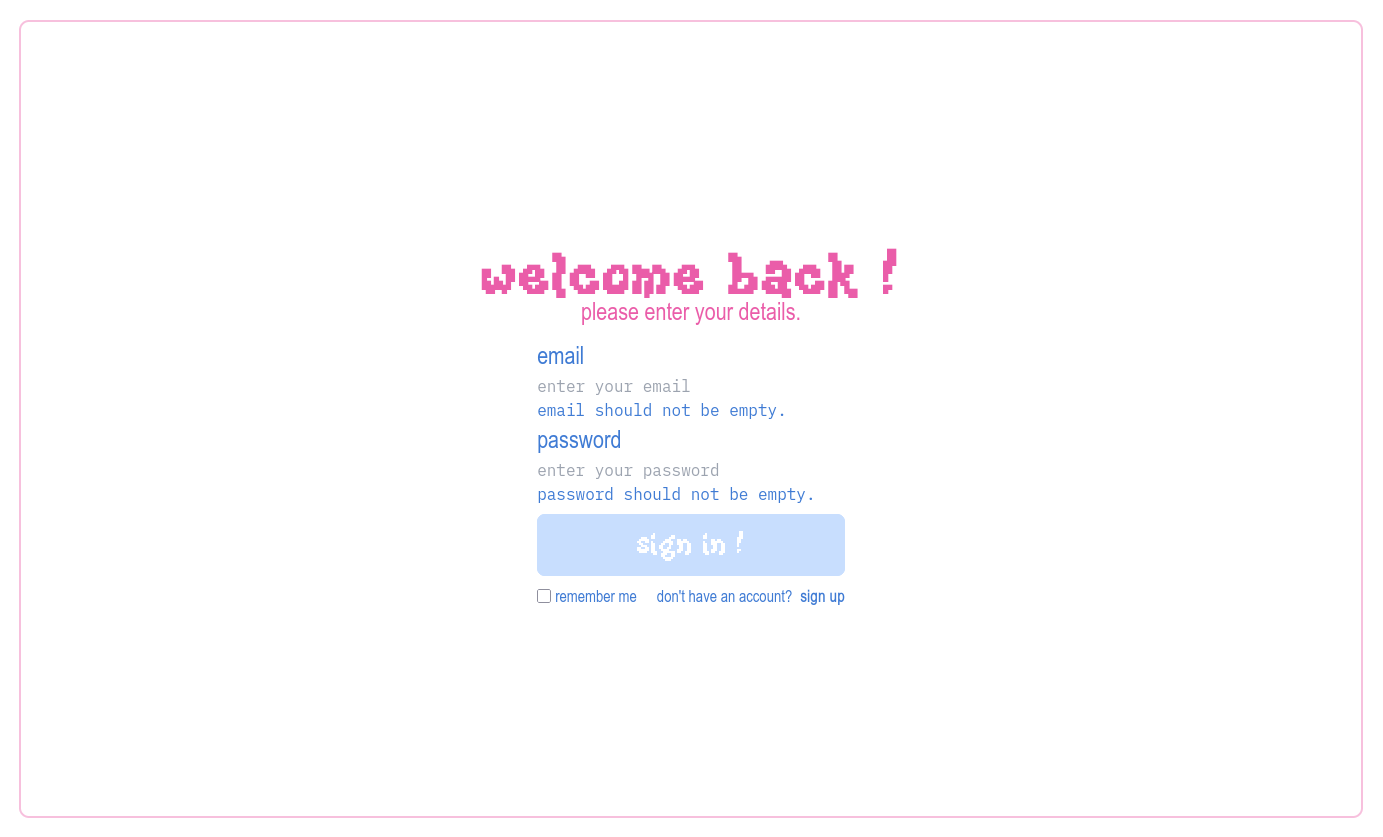
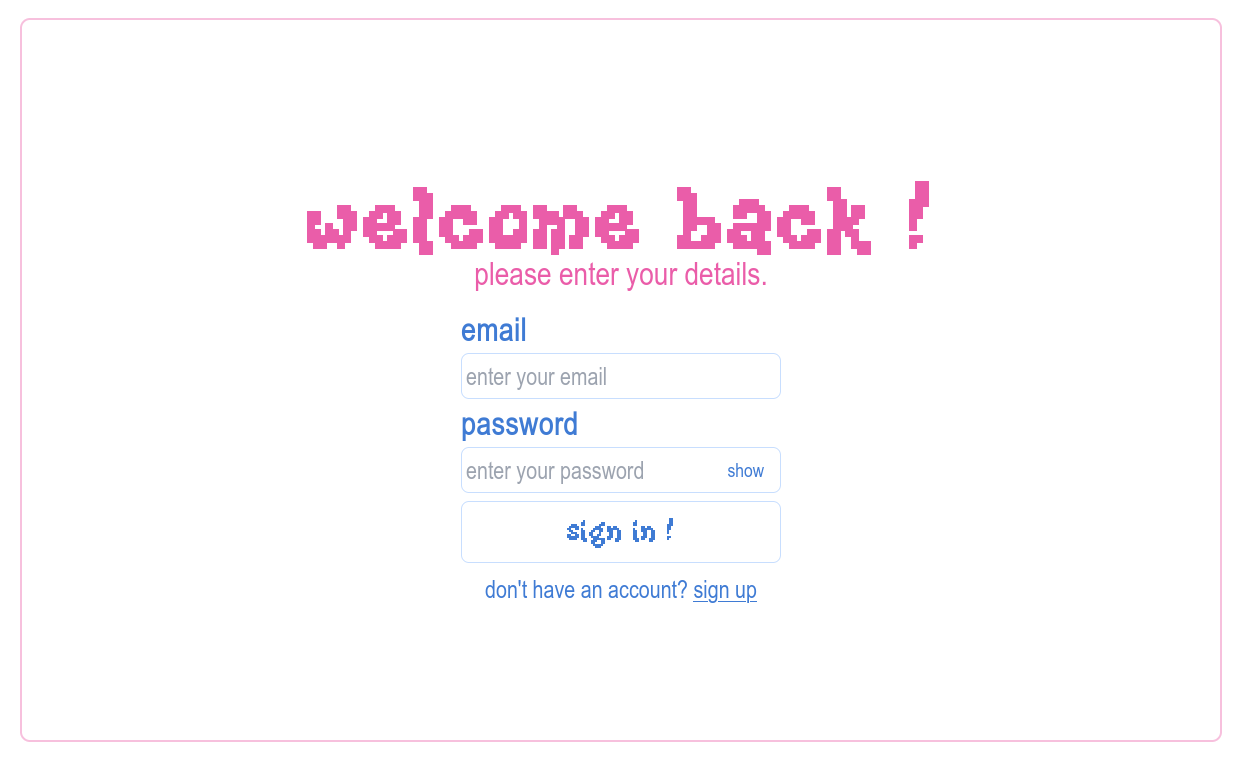
docs : updating to do list and screenshots

diff --git a/README.md b/README.md
@@ -16,9 +16,12 @@ _pesca_ is a web application inspired by the Pomodoro technique, allowing users 
 - [x] style components
 - [x] add logs to user profile
 - [x] add possibility to see your own password
-- [ ] fix pomodoro timer cycle
+- [ ] fix pomodoro timer cycle (in progress)
+    - [ ] instantly save the settings
 - [ ] update navbar when a user logs in
+
+### extras
 - [ ] add notifications when timer is over
-- [ ] reduce max number of entries in PomodoroLog and implement "see more" button
 - [ ] adding statistics user profile
 - [ ] implement account confirmation
+- [ ] reduce max number of entries in PomodoroLog and implement "see more" button
